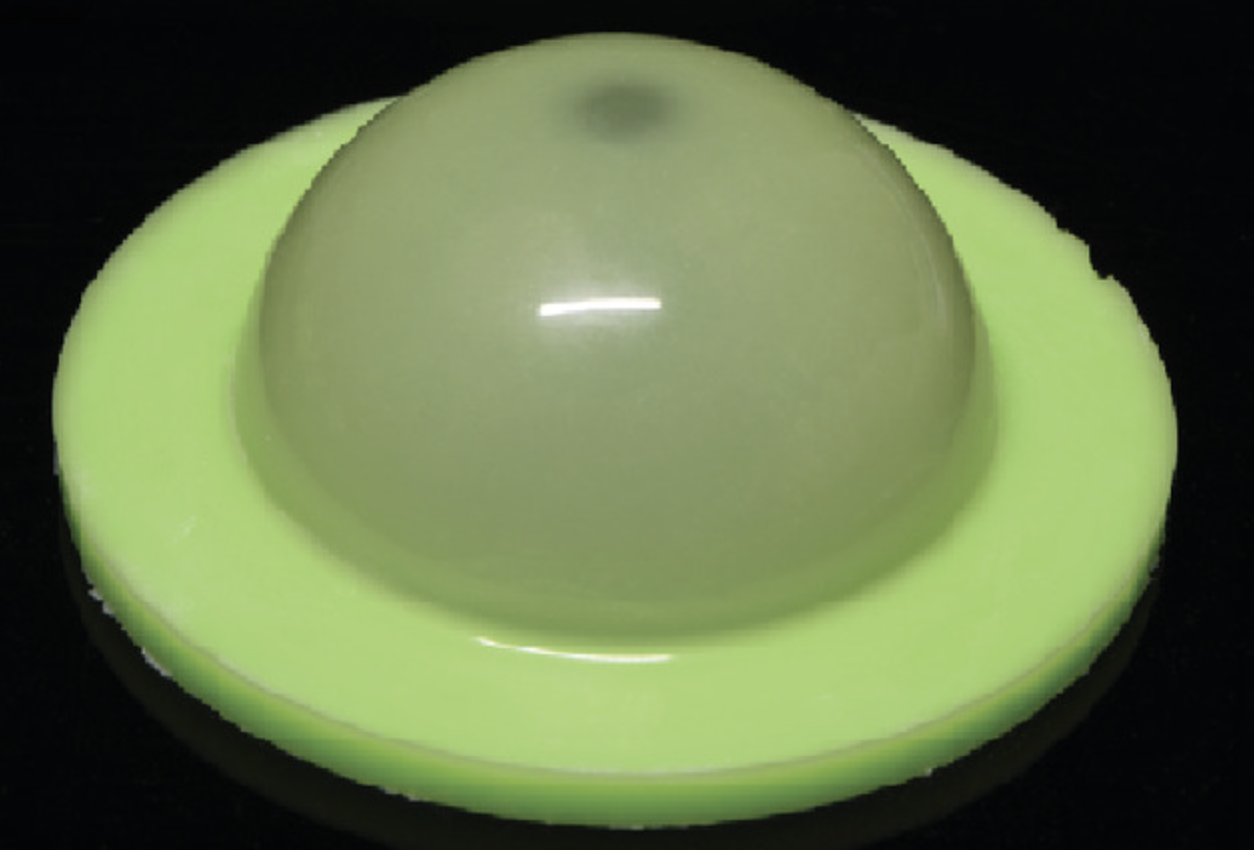
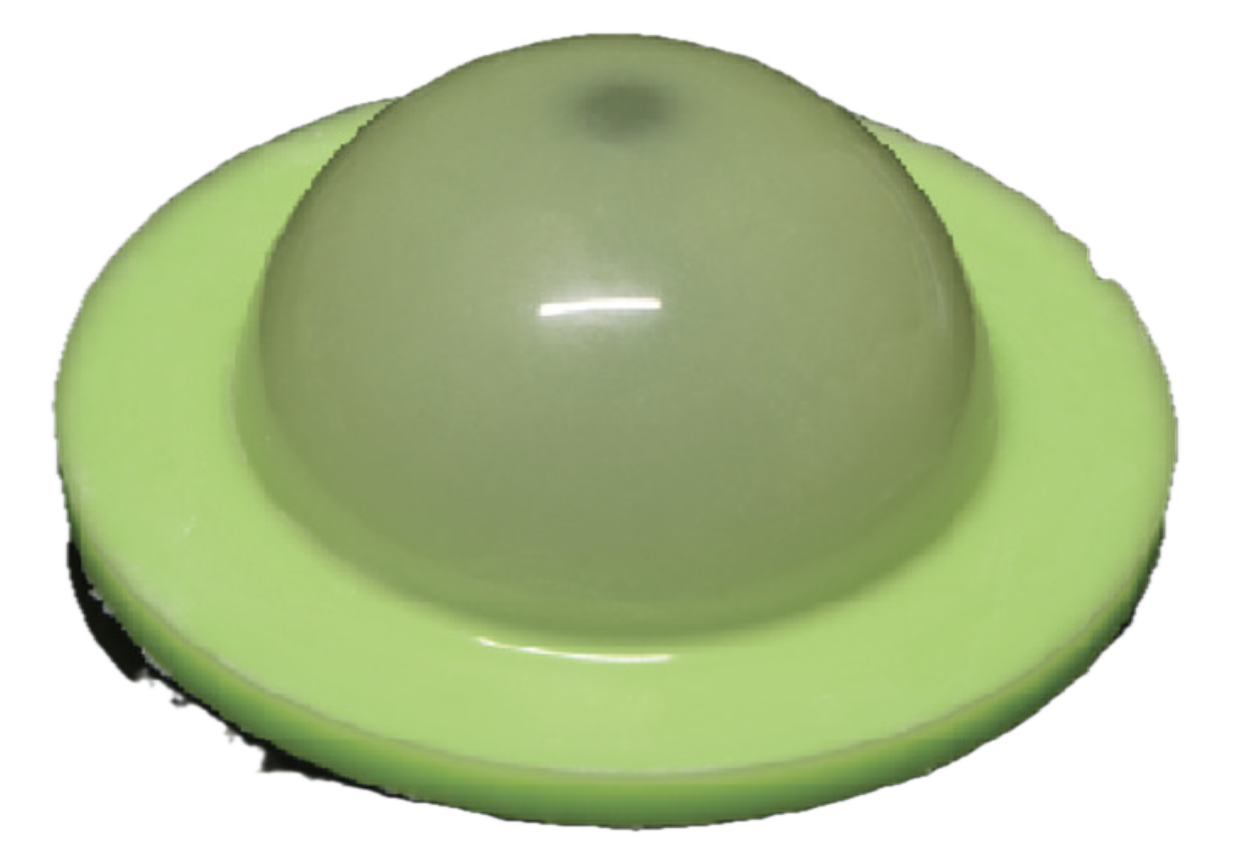
img

diff --git a/index.html b/index.html
@@ -383,7 +383,7 @@
 
     <li class="pub-item">
       <span class="pub-num">23</span>
-      <div class="pub-fig"><img src="https://mpezzulla.github.io/mpezzulla.com/files/fig23.jpg" alt="fig"></div>
+      <div class="pub-fig"><img src="https://mpezzulla.github.io/mpezzulla.com/files/fig23.png" alt="fig"></div>
       <div class="pub-content">
         <span class="pub-badge badge-jmps">JMPS · 2022</span>
         <p class="pub-authors">T. G. Sano, M. Pezzulla, and P. M. Reis</p>
